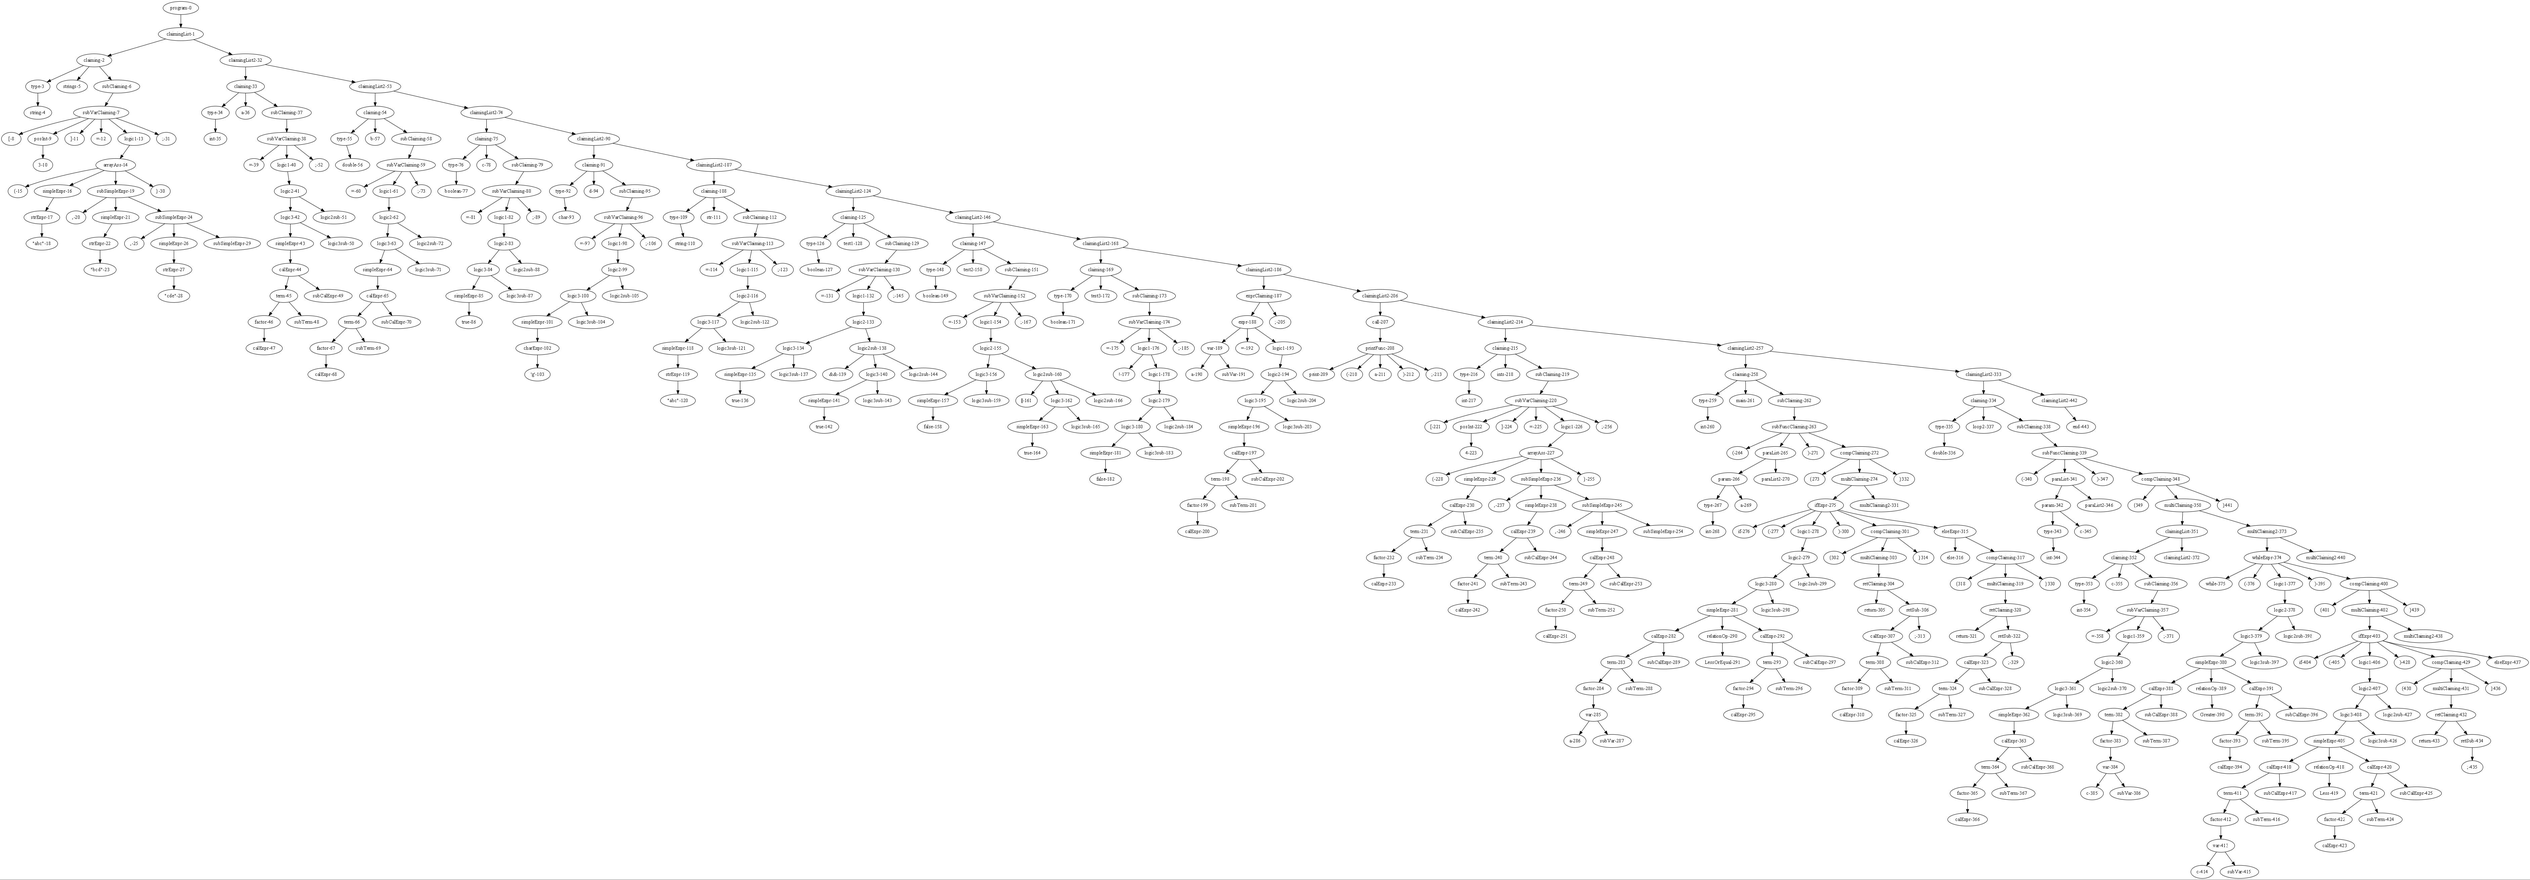
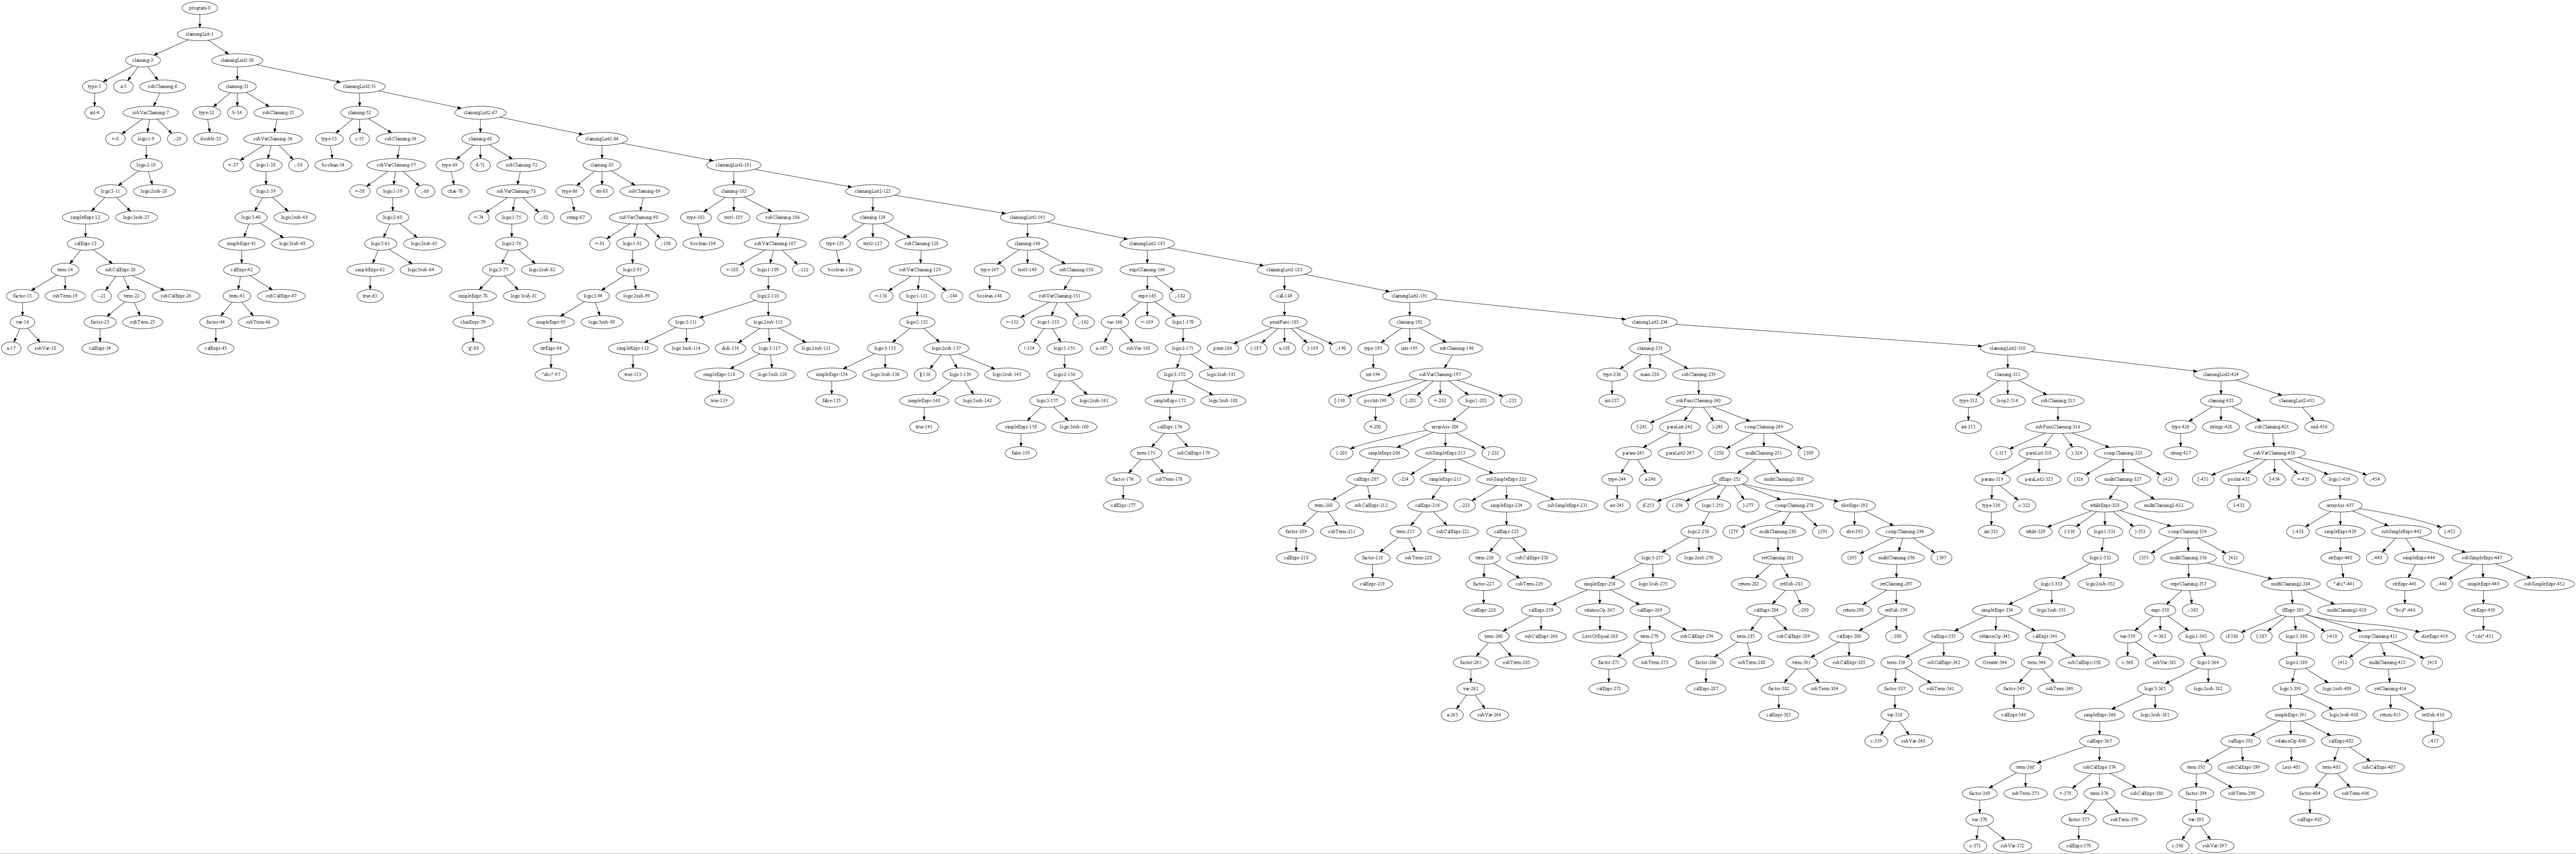
修复了一个Bug

diff --git a/Mini/src/Parser/ParserRun.java b/Mini/src/Parser/ParserRun.java
@@ -694,7 +694,10 @@ public class ParserRun {
 			System.out.print(tokens.get(currPos).getContent()+" ");
 			currPos++;
 		}
-		else if((tokens.get(currPos).getCode()==16||isIdentifier()||isNum())&&(tokens.get(currPos+1).getCode()==17||tokens.get(currPos+1).getCode()==19||tokens.get(currPos+1).getCode()==22||tokens.get(currPos+1).getCode()==23)) {
+		else if((tokens.get(currPos).getCode()==16||isIdentifier()||isNum())&&(tokens.get(currPos+1).getCode()==17||tokens.get(currPos+1).getCode()==19||tokens.get(currPos+1).getCode()==22||tokens.get(currPos+1).getCode()==23
+				||tokens.get(currPos+1).getCode()==40||tokens.get(currPos+1).getCode()==34||
+				tokens.get(currPos+1).getCode()==35||tokens.get(currPos+1).getCode()==36||
+				tokens.get(currPos+1).getCode()==37)) {
 			dotFormat+="<simpleExpr-"+curNodeNum+">-><calExpr-"+getNext()+">;";
 			calExpr();
 		}
@@ -850,7 +853,8 @@ public class ParserRun {
 		 if(tokens.get(currPos).getCode()==22||isRelation()||tokens.get(currPos).getCode()==17||
 				 tokens.get(currPos).getCode()==31||tokens.get(currPos).getCode()==32||tokens.get(currPos).getCode()==34
 				 ||tokens.get(currPos).getCode()==35||tokens.get(currPos).getCode()==36
-				 ||tokens.get(currPos).getCode()==37||tokens.get(currPos).getCode()==24) {
+				 ||tokens.get(currPos).getCode()==37||tokens.get(currPos).getCode()==24
+				 ||tokens.get(currPos).getCode()==40||tokens.get(currPos).getCode()==41){
 			 return;
 		 }
 		 else if(tokens.get(currPos).getCode()==16) {

diff --git a/Mini/src/Lexer/run.java b/Mini/src/Lexer/run.java
@@ -277,7 +277,7 @@ public class run {
 				System.out.println("Line:"+lineNum+"At"+currPosition+"  Syntax Error: '-' can not be the head of the line!");
 			}
 			//ʶ��-��Ϊ����
-			else if(ch=='-'&&(tokens.get(tokens.size()-1).code==0)){
+			else if(ch=='-'&&(tokens.get(tokens.size()-1).code==-1||tokens.get(tokens.size()-1).code==-2||tokens.get(tokens.size()-1).code==-4)){
 				token.append(ch);		
 				String tmpstr = token.toString();
 				movement++;
